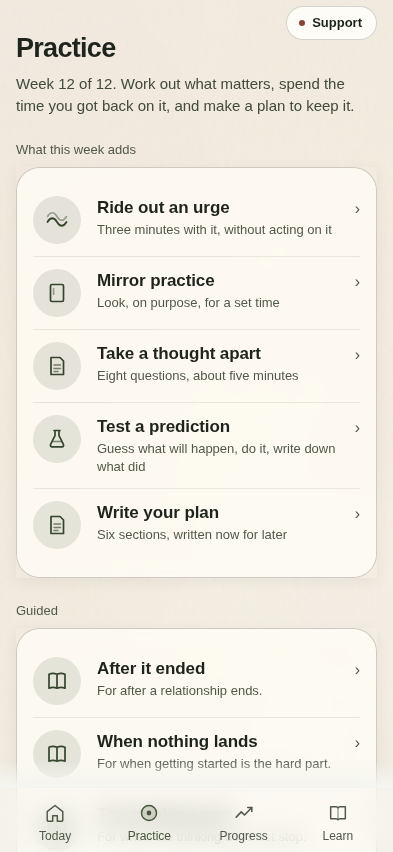
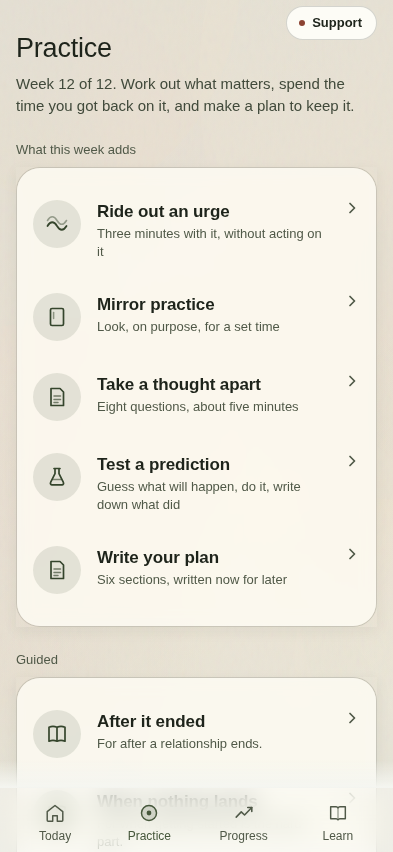
Put Still and the measure into the app's own visual language
The UI review's list, worked through in the order it gave.

MEASURE WAS NOT ON THE APP'S GROUND AT ALL. All three states rendered a bare View plus a
ScrollView, while every other screen goes through `Ground`. One line, three consequences: no
top safe-area inset while the Support pill is pinned to one, no `Atmosphere` — so the screen
a person meets at the end of onboarding was the only one in the app with no light in it — and
answer options filled with `surface` over `line` on a flat background, which composites to
about 1.1:1 for both the fill and the border. The only controls on the screen were ghosts,
well under the 3:1 WCAG asks of a control boundary. Elsewhere those same tokens survive
because there is a gradient behind them and Frost adds elevation; here there was neither.

The hand-rolled option rows are now the app's own `Options` — accentDim fill, accent border,
the same radius as every other choice in the app, and announcing as a radio, which is what
four mutually exclusive answers are.

STILL'S RUNNING STATES COULD NOT CENTRE THEMSELVES. `flex: 1` inside a ScrollView's content
container gets its natural height, so `justifyContent: 'center'` centred the breathing circle
within nothing: it sat jammed under the top bar with two thirds of the screen empty and
"Stop" directly beneath it. Every mode's closing beat collapsed the same way. My browser
check passed because it asserted text and not layout. `Ground` gains an opt-in `fill`, and
[…]

diff --git a/app/measure.tsx b/app/measure.tsx
@@ -2,8 +2,9 @@ import React, { useMemo, useState } from 'react';
 import { View, ScrollView, Pressable, StyleSheet, Text } from 'react-native';
 import { useRouter, useLocalSearchParams } from 'expo-router';
 import { useSafeAreaInsets } from 'react-native-safe-area-context';
-import { Button, H1, H2, Body, BodySm, Caption, useTheme } from '../components/ui';
-import { Frost, TopBar } from '../components/frost';
+import { Button, H1, H2, Body, BodySm, Caption, Options, useTheme } from '../components/ui';
+import { Frost, Ground, TopBar } from '../components/frost';
+import { SUPPORT_PILL_CLEARANCE } from './_layout';
 import { space, radius, type as t, LAYOUT_MAX_WIDTH } from '../constants/theme';
 import { useStore } from '../store/useStore';
 import { haptic } from '../hooks/haptics';
@@ -117,19 +118,11 @@ export default function Measure() {
   /* ---------- the finished state ---------- */
   if (done) {
     return (
-      <View style={{ flex: 1, backgroundColor: c.bg }}>
+      <Ground>
         {/* They answered, so leaving is not a decline — plain back, no skip stamp. */}
-        <TopBar onBack={exit} title={NAMES.measure.title} />
-        <ScrollView
-          contentContainerStyle={{
-            padding: space.lg,
-            paddingBottom: insets.bottom + space.xxl,
-            maxWidth: LAYOUT_MAX_WIDTH,
-            width: '100%',
-            alignSelf: 'center',
-          }}
-        >
-          <H1>{MEASURE_DONE_TITLE}</H1>
+        <TopBar onBack={exit} />
+        <View>
+          <H1 style={{ paddingRight: SUPPORT_PILL_CLEARANCE }}>{MEASURE_DONE_TITLE}</H1>
           <Body style={{ marginTop: space.md, color: c.ink }}>{MEASURE_DONE_BODY}</Body>
 
           <View style={{ marginTop: space.xl, gap: space.md }}>
@@ -139,9 +132,16 @@ export default function Measure() {
                  surface, and setting them again out here wrapped every card in a second one. */
               return (
                 <Frost key={ins.key}>
-                  <Caption style={{ color: c.inkSoft }}>{ins.plainName}</Caption>
+                  {/* THE SENTENCE LEADS, NOT THE FIGURE. This card used to set the total at
+                      40pt/700 in near-black — twice the size of anything else — directly above
+                      copy saying "They mean nothing on their own". A number that large does
+                      severity work whether or not a severity label is printed, because the eye
+                      lands on it and the reader supplies the meaning the app declined to give.
+                      So the instrument's plain name is the heading, and the score is one
+                      string at body scale. Nothing is hidden and nothing is interpreted. */}
+                  <H2>{ins.plainName}</H2>
                   <View style={{ flexDirection: 'row', alignItems: 'baseline', marginTop: space.xs }}>
-                    <Text style={[t.hero, { color: c.ink, fontSize: 40, lineHeight: 44 }]}>
+                    <Text style={[t.h3, { color: c.ink }]}>
                       {value ?? '—'}
                     </Text>
                     {/* marginLeft rather than the row's `gap`, which does not survive baseline
@@ -162,8 +162,8 @@ export default function Measure() {
           <BodySm style={{ marginTop: space.lg, color: c.inkSoft }}>{MEASURE_NOT_A_DIAGNOSIS}</BodySm>
 
           <Button label="Done" onPress={exit} style={{ marginTop: space.xl }} />
-        </ScrollView>
-      </View>
+        </View>
+      </Ground>
     );
   }
 
@@ -171,20 +171,14 @@ export default function Measure() {
   if (!started) {
     const lines = milestone ? [MEASURE_DUE_BODY] : MEASURE_INTRO;
     return (
-      <View style={{ flex: 1, backgroundColor: c.bg }}>
+      <Ground>
         {/* Leaving without finishing is a decline, and is stamped as one so the app does not
             re-offer on the next launch. */}
-        <TopBar onBack={leave} title={NAMES.measure.title} />
-        <ScrollView
-          contentContainerStyle={{
-            padding: space.lg,
-            paddingBottom: insets.bottom + space.xxl,
-            maxWidth: LAYOUT_MAX_WIDTH,
-            width: '100%',
-            alignSelf: 'center',
-          }}
-        >
-          <H1>{milestone ? MEASURE_DUE_TITLE : 'Where you are starting from'}</H1>
+        <TopBar onBack={leave} />
+        <View>
+          <H1 style={{ paddingRight: SUPPORT_PILL_CLEARANCE }}>
+            {milestone ? MEASURE_DUE_TITLE : 'Where you are starting from'}
+          </H1>
           {lines.map((line) => (
             <Body key={line} style={{ marginTop: space.md, color: c.ink }}>
               {line}
@@ -209,8 +203,8 @@ export default function Measure() {
           >
             <Text style={[t.label, { color: c.accentDeep }]}>{MEASURE_SKIP}</Text>
           </Pressable>
-        </ScrollView>
-      </View>
+        </View>
+      </Ground>
     );
   }
 
@@ -219,18 +213,10 @@ export default function Measure() {
   const answered = answers[step];
 
   return (
-    <View style={{ flex: 1, backgroundColor: c.bg }}>
-      <TopBar onBack={leave} title={NAMES.measure.title} />
-      <ScrollView
-        contentContainerStyle={{
-          padding: space.lg,
-          paddingBottom: insets.bottom + space.xxl,
-          maxWidth: LAYOUT_MAX_WIDTH,
-          width: '100%',
-          alignSelf: 'center',
-        }}
-      >
-        <Caption style={{ color: c.inkFaint }}>
+    <Ground>
+      <TopBar onBack={leave} />
+      <View>
+        <Caption style={{ color: c.inkFaint, paddingRight: SUPPORT_PILL_CLEARANCE }}>
           {step + 1} of {STEPS.length}
         </Caption>
 
@@ -244,30 +230,22 @@ export default function Measure() {
 
         <H2 style={{ marginTop: s.first ? space.lg : space.md }}>{s.text}</H2>
 
-        <View style={{ marginTop: space.xl, gap: space.sm }}>
-          {CHOICES.map((choice) => {
-            const on = answered === choice.value;
-            return (
-              <Pressable
-                key={choice.value}
-                accessibilityRole="button"
-                accessibilityState={{ selected: on }}
-                onPress={() => answer(choice.value)}
-                style={({ pressed }) => ({
-                  minHeight: 56,
-                  justifyContent: 'center',
-                  paddingHorizontal: space.lg,
-                  borderRadius: radius.card,
-                  backgroundColor: on ? c.accent : c.surface,
-                  borderWidth: StyleSheet.hairlineWidth,
-                  borderColor: on ? c.accent : c.line,
-                  opacity: pressed ? 0.8 : 1,
-                })}
-              >
-                <Text style={[t.body, { color: on ? c.onAccent : c.ink }]}>{choice.label}</Text>
-              </Pressable>
-            );
-          })}
+        {/* THE APP'S OWN OPTION ROW, not a second one invented here.
+            The hand-rolled version filled each row with `surface` over `line` on a flat
+            background — roughly 1.1:1 for both the fill and the border, so the only controls
+            on the screen were nearly invisible, well under the 3:1 WCAG asks of a control
+            boundary. Elsewhere those same tokens survive because there is a gradient behind
+            them and Frost adds elevation; here there was neither.
+            `Options` is what every other choice in the app looks like — accentDim fill,
+            accent border, radius.md rather than a second card radius — and it announces as a
+            radio, which is what these four are. */}
+        <View style={{ marginTop: space.xl }}>
+          <Options
+            options={CHOICES.map((ch) => ch.value)}
+            labels={CHOICES.map((ch) => ch.label)}
+            value={answered}
+            onChange={(v) => answer(v)}
+          />
         </View>
 
         <View style={{ flexDirection: 'row', gap: space.xl, marginTop: space.xl }}>
@@ -291,7 +269,7 @@ export default function Measure() {
             <Text style={[t.label, { color: c.inkSoft }]}>Not now</Text>
           </Pressable>
         </View>
-      </ScrollView>
-    </View>
+      </View>
+    </Ground>
   );
 }

diff --git a/app/still.tsx b/app/still.tsx
@@ -6,6 +6,7 @@ import { Frost, Ground, TopBar, ListRow, type GlyphKind } from '../components/fr
 import { BreathCircle, QuietCircle } from '../components/BreathCircle';
 import { space, radius, type as t } from '../constants/theme';
 import { haptic } from '../hooks/haptics';
+import { SUPPORT_PILL_CLEARANCE } from './_layout';
 import {
   MODES, BREATHE, RESET, FLOAT, modeByKey,
   STILL_TITLE, STILL_INTRO, STILL_NOT_THE_POINT, type StillMode,
@@ -61,10 +62,13 @@ const GLYPHS: Record<StillMode, GlyphKind> = {
 };
 
 function Menu({ onPick, onBack }: { onPick: (m: StillMode) => void; onBack: () => void }) {
+  const c = useTheme();
   return (
     <Ground>
       <TopBar onBack={onBack} />
-      <H1 style={{ marginTop: space.lg }}>{STILL_TITLE}</H1>
+      {/* The Support pill floats over the top-right corner; every other titled screen in the
+          app reserves the space and these two did not. */}
+      <H1 style={{ marginTop: space.lg, paddingRight: SUPPORT_PILL_CLEARANCE }}>{STILL_TITLE}</H1>
       <BodySm style={{ marginTop: space.sm, marginBottom: space.xl }}>{STILL_INTRO}</BodySm>
 
       <Frost>
@@ -80,7 +84,10 @@ function Menu({ onPick, onBack }: { onPick: (m: StillMode) => void; onBack: () =
         ))}
       </Frost>
 
-      <Caption style={{ marginTop: space.lg }}>{STILL_NOT_THE_POINT}</Caption>
+      {/* Was `Caption` — 13pt inkFaint, the smallest and palest type here. "It is here for
+          the days when the rest of it is too much" is the kindest line in this file and it
+          was styled like a disclaimer. */}
+      <BodySm style={{ marginTop: space.lg, color: c.inkSoft }}>{STILL_NOT_THE_POINT}</BodySm>
     </Ground>
   );
 }
@@ -141,7 +148,10 @@ function Lengths({
  *  header. It says what happened and offers the way out. */
 function Outro({ line, onBack }: { line: string; onBack: () => void }) {
   return (
-    <Ground>
+    /* `fill`, or the closing beat of every mode collapses to the top of the screen. A
+       `flex: 1` child inside a ScrollView's content container gets its natural height, so
+       `justifyContent: 'center'` centres it within nothing. See the prop's own comment. */
+    <Ground fill>
       <TopBar onBack={onBack} />
       <View style={{ flex: 1, justifyContent: 'center' }}>
         <H2>{line}</H2>
@@ -179,8 +189,10 @@ function BreatheMode({ onBack }: { onBack: () => void }) {
   if (phase === 'intro') {
     return (
       <Ground>
-        <TopBar onBack={onBack} title={m.title} />
-        <H1 style={{ marginTop: space.lg }}>{m.title}</H1>
+        {/* No title on the bar: the H1 directly beneath is the same word, and two identical
+            headings stacked reads as a mistake rather than a hierarchy. */}
+        <TopBar onBack={onBack} />
+        <H1 style={{ marginTop: space.lg, paddingRight: SUPPORT_PILL_CLEARANCE }}>{m.title}</H1>
         <Body style={{ marginTop: space.md }}>{m.intro}</Body>
 
         <Caption style={{ marginTop: space.xl }}>How long</Caption>
@@ -193,10 +205,13 @@ function BreatheMode({ onBack }: { onBack: () => void }) {
   }
 
   return (
-    <Ground>
-      <TopBar onBack={onBack} title={m.title} />
+    <Ground fill>
+      <TopBar onBack={onBack} />
       <View style={{ flex: 1, alignItems: 'center', justifyContent: 'center' }}>
-        <BreathCircle pattern={pattern} onDone={() => setPhase('done')} />
+        {/* No counter. STILL_INTRO promises "none of them is scored", and counting to thirty
+            on screen for five minutes is the app keeping score out loud. The rotating
+            `during` lines carry the pacing on their own. */}
+        <BreathCircle pattern={pattern} showCycles={false} onDone={() => setPhase('done')} />
       </View>
       {/* Leaving is a plain control at full weight, never a confirm. Urge surfing asks twice
           on purpose because leaving early IS the urge; there is nothing to resist here. */}
@@ -251,8 +266,10 @@ function ResetMode({ onBack }: { onBack: () => void }) {
   if (phase === 'intro') {
     return (
       <Ground>
-        <TopBar onBack={onBack} title={m.title} />
-        <H1 style={{ marginTop: space.lg }}>{m.title}</H1>
+        {/* No title on the bar: the H1 directly beneath is the same word, and two identical
+            headings stacked reads as a mistake rather than a hierarchy. */}
+        <TopBar onBack={onBack} />
+        <H1 style={{ marginTop: space.lg, paddingRight: SUPPORT_PILL_CLEARANCE }}>{m.title}</H1>
         <Body style={{ marginTop: space.md }}>{m.intro}</Body>
         <Body style={{ marginTop: space.md }}>{RESET.setup}</Body>
 
@@ -267,8 +284,8 @@ function ResetMode({ onBack }: { onBack: () => void }) {
   const line = resetStepAt(elapsed, total);
 
   return (
-    <Ground>
-      <TopBar onBack={onBack} title={m.title} />
+    <Ground fill>
+      <TopBar onBack={onBack} />
       <View style={{ flex: 1, alignItems: 'center', justifyContent: 'center' }}>
         <QuietCircle size={160} />
         {/* One line at a time, centred, large enough to read lying down with the phone at
@@ -299,12 +316,18 @@ function FloatMode({ onBack }: { onBack: () => void }) {
   const c = useTheme();
   const m = modeByKey('float');
   const [started, setStarted] = useState(false);
+  /* FLOAT.outro was written in content/still.ts and rendered nowhere — Leave went straight
+     back to the menu. Dead copy in a content file is how the words on screen and the words
+     in the file drift apart. */
+  const [done, setDone] = useState(false);
 
   if (!started) {
     return (
       <Ground>
-        <TopBar onBack={onBack} title={m.title} />
-        <H1 style={{ marginTop: space.lg }}>{m.title}</H1>
+        {/* No title on the bar: the H1 directly beneath is the same word, and two identical
+            headings stacked reads as a mistake rather than a hierarchy. */}
+        <TopBar onBack={onBack} />
+        <H1 style={{ marginTop: space.lg, paddingRight: SUPPORT_PILL_CLEARANCE }}>{m.title}</H1>
         <Body style={{ marginTop: space.md }}>{m.intro}</Body>
         <Caption style={{ marginTop: space.lg }}>{FLOAT.opening}</Caption>
         <Button label="Start" onPress={() => setStarted(true)} style={{ marginTop: space.xl }} />
@@ -315,15 +338,21 @@ function FloatMode({ onBack }: { onBack: () => void }) {
   /* NO TIMER, NO COUNT, NO SCRIPT, AND NO ELAPSED READOUT. The brief asks for the app to get
      out of the way, and a clock is the app staying in the room. The only text is the way
      out, which has to be visible or leaving becomes a puzzle. */
+  if (done) return <Outro line={FLOAT.outro} onBack={onBack} />;
+
   return (
-    <Ground>
+    /* The top bar stays. Breathe and Reset both keep theirs, and dropping it here left the
+       only way out as a control at the bottom of a screen that was not filling — so on a
+       short viewport Float could be entered and not obviously left. */
+    <Ground fill>
+      <TopBar onBack={onBack} />
       <View style={{ flex: 1, alignItems: 'center', justifyContent: 'center' }}>
         <QuietCircle size={240} />
       </View>
       <Pressable
         accessibilityRole="button"
         accessibilityLabel="Leave"
-        onPress={onBack}
+        onPress={() => setDone(true)}
         style={({ pressed }) => ({
           minHeight: 44,
           alignItems: 'center',

diff --git a/constants/palette.ts b/constants/palette.ts
@@ -168,10 +168,23 @@ export const DARK_INK_GROUND = '#2B3824';
  * Sizes only; theme.ts adds the families. The old scale had ten steps with six of them
  * inside a 4.5pt band, and `h3` and `body` were both 16 — which is exactly why the list
  * screens read as undifferentiated walls of text. */
+/* ⚠ THE HEADING WEIGHTS CAME DOWN, AND THAT IS A TONE FIX RATHER THAN A TASTE ONE.
+ *
+ * `display` and `h1` were 700 with -0.8 and -0.7 tracking, in near-black. Heavy, tight,
+ * near-black headlines are assertive typography — the voice of a dashboard telling you a
+ * number. "Where you are starting from", set that way above fifteen questions about somebody's
+ * worst fortnight, is tonally the opposite of the brief's "nothing competes".
+ *
+ * 500 and -0.2 is the same scale and the same hierarchy at a lower temperature. `hero` keeps
+ * its weight: it is the hours-back figure, the one number the product is actually about, and
+ * it is meant to land.
+ *
+ * The real answer is still the brief's warm humanist serif, which needs a bundled face and a
+ * font loader — neither is in package.json, so that stays a decision rather than a change. */
 export const TYPE_SCALE = {
   hero: { fontSize: 64, lineHeight: 66, letterSpacing: -2.6, weight: '700' },
-  display: { fontSize: 34, lineHeight: 38, letterSpacing: -0.8, weight: '700' },
-  h1: { fontSize: 27, lineHeight: 33, letterSpacing: -0.7, weight: '700' },
+  display: { fontSize: 34, lineHeight: 38, letterSpacing: -0.2, weight: '500' },
+  h1: { fontSize: 27, lineHeight: 33, letterSpacing: -0.2, weight: '500' },
   h2: { fontSize: 21, lineHeight: 27, letterSpacing: -0.4, weight: '600' },
   h3: { fontSize: 17, lineHeight: 23, letterSpacing: -0.1, weight: '600' },
   body: { fontSize: 16, lineHeight: 25, letterSpacing: 0, weight: '400' },

diff --git a/components/frost.tsx b/components/frost.tsx
@@ -739,9 +739,12 @@ export function ListRow({
            nothing. */
         alignItems: 'flex-start',
         gap: space.lg,
-        paddingVertical: space.md,
-        borderTopWidth: first ? 0 : StyleSheet.hairlineWidth,
-        borderTopColor: c.line,
+        /* NO RULE BETWEEN ROWS, AND MORE AIR INSTEAD.
+           These were the only hard dividers in the app — edge to edge, including under the
+           48pt glyph disc — on the one screen where they were the most visible element inside
+           the card. The house rule is that spacing and tone do the separating, so the
+           hairline is gone and the padding grew to carry the grouping. */
+        paddingVertical: space.lg,
         /* The locked state is carried by the ink token and the lock label below, NOT by a
            container opacity. React Native composites `opacity` over the whole subtree — text
            together with everything under it — which is how dimmed rows elsewhere measured
@@ -772,7 +775,12 @@ export function ListRow({
           <Path d="M3 8.4 6.4 11.8 13 5" stroke={c.cool} strokeWidth={2.2} strokeLinecap="round" strokeLinejoin="round" fill="none" />
         </Svg>
       ) : (
-        <Text style={[t.body, { color: c.inkFaint }]}>›</Text>
+        /* Drawn, not typed. This was a `›` character in a file that already carries a full
+           SVG glyph set: optically lighter than everything around it, unaligned because the
+           row is top-aligned, and it read as a placeholder. */
+        <Svg width={16} height={16} viewBox="0 0 16 16">
+          <Path d="M6 3.5 10.5 8 6 12.5" stroke={c.inkFaint} strokeWidth={1.75} strokeLinecap="round" strokeLinejoin="round" fill="none" />
+        </Svg>
       )}
     </Pressable>
   );

diff --git a/content/measure.ts b/content/measure.ts
@@ -112,10 +112,8 @@ export const INSTRUMENTS: readonly Instrument[] = [PHQ8, GAD7] as const;
  *  where the answers go. In that order, because the third is the one that decides whether
  *  somebody in this position answers honestly. */
 export const MEASURE_INTRO = [
-  'These fifteen questions are how you will be able to tell whether any of this is working.',
-  'They are two standard questionnaires, used in clinics and in research. Answering them now gives you a starting point to compare against later.',
-  'This is not a test and there is no result to pass. Nothing here is a diagnosis, and the app will not tell you what your answers mean about you.',
-  'Your answers stay on this phone like everything else. You can skip this and still use every part of the app.',
+  'These are two standard questionnaires, used in clinics and in research. Answering them now gives you a starting point to compare against later.',
+  'You can skip this and still use every part of the app. Your answers stay on this phone, this is not a test, and nothing here is a diagnosis.',
 ] as const;
 
 /** The skip control. Says what happens, not "maybe later". */
